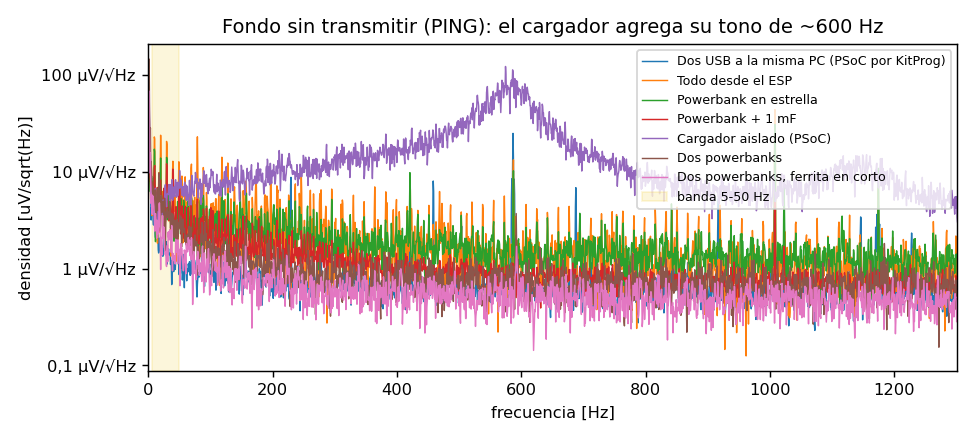
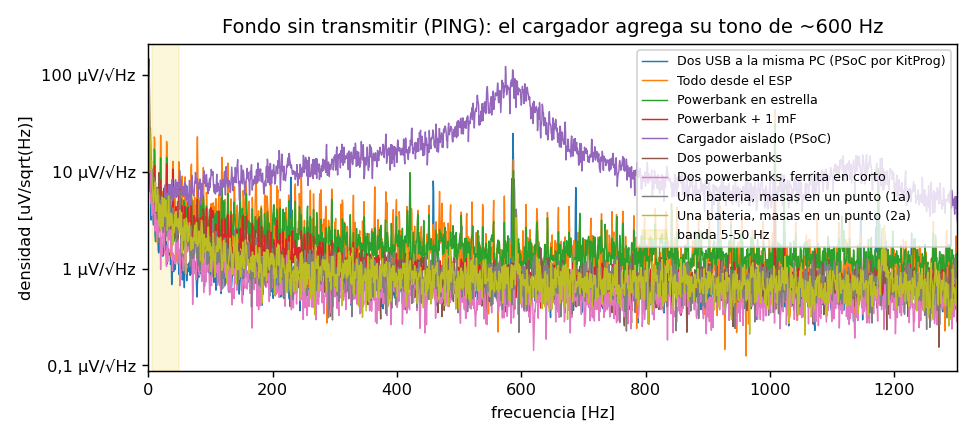
Una bateria con masas en un punto: SD y baliza sin efecto, TX 9,8 mV en banda a ganancia de campo
Claude-Session: https://claude.ai/code/session_015vxwffcT5SngEWGSrRrgxc

Changed region(s): [[0.1538, 0.3824, 0.9846, 0.7353]]

diff --git a/lab/informe_alimentacion.py b/lab/informe_alimentacion.py
@@ -33,11 +33,14 @@ CONFIGS = [
     ('Cargador\naislado (PSoC)', 'ruido_rf_20261021_ferrita_fuente/W9_ganancia_pga2'),
     ('Dos\npowerbanks', 'ruido_rf_20261021_2powerbanks/R8_seo_x4'),
     ('Dos powerbanks,\nferrita en corto', 'ruido_rf_20261021_ferrita_corto/R8_seo_x4'),
+    ('Una bateria, masas\nen un punto (1a)', 'ruido_rf_20261022_bateria_unica_punto/R8_seo_x4'),
+    ('Una bateria, masas\nen un punto (2a)', 'ruido_rf_20261022_bateria_unica_punto_rep/R8_seo_x4'),
 ]
 # LPo ganancia de campo (x8 x16): BASE, ESD, RF240
 LPO = [
     ('Dos powerbanks,\nferrita entre planos', 'ruido_rf_20261021_2powerbanks/R9b_lpo_campo'),
     ('Dos powerbanks,\nferrita en corto', 'ruido_rf_20261021_ferrita_corto/R9_lpo_campo'),
+    ('Una bateria,\nmasas en un punto', 'ruido_rf_20261022_bateria_unica_punto_rep/R9_lpo_campo'),
 ]
 _CAP = {}
 
@@ -99,7 +102,7 @@ def main(argv=None):
         })
 
     # 1) barras: exceso por TX en banda (log)
-    fig, ax = plt.subplots(figsize=(10.5, 3.8))
+    fig, ax = plt.subplots(figsize=(13, 3.8))
     et = [e for e, _ in datos]
     ex = [max(exceso(dd, 'RF240', 'PING'), 1e-3) for _, dd in datos]
     col = ['#c0392b' if v > 0.1 else '#27ae60' for v in ex]

diff --git a/lab/RUIDO_RF_2026-10-20.md b/lab/RUIDO_RF_2026-10-20.md
@@ -463,3 +463,4 @@ Cambio físico del usuario: los dos planos de tierra quedan unidos solo por una 
 - **Ferrita en corto (dos powerbanks):** SEo x4 brote TX 0,04 mV (fondo), exceso 0,008 mV; LPo x8·x16 RMS 5-50 Hz base/SD/TX 0,90/0,89/0,94 mV contra 0,87/0,85/0,83 con la ferrita: no cambia nada (`ruido_rf_20261021_ferrita_corto`).
 - LPo x8·x16 con dos powerbanks: SD del ESP y TX sin exceso en banda; fondo 0,87 mV (dos USB: 0,49), picos ~9-10 Hz (¿baliza?): falta medir con la radio apagada a esa ganancia.
 - Informe con figuras: https://claude.ai/artifact/Fy3Mropy23ftcbEgdEC8Xq (`lab/informe_alimentacion.py`).
+- **2026-10-22, una batería, ESP por Vin, PSoC por su USB, masas en un solo punto, ferrita en corto:** SEo x4 brote TX 0,66 / 2,14 mV (dos corridas), exceso 0,16 / 0,27 mV; LPo x8·x16 base 0,84, SD 0,86, TX 9,84 mV RMS 5-50 Hz (brote 109 mV). SD y radio en reposo sin efecto; la TX sí. Primera corrida con dos cortes del USB del ESP (`ruido_rf_20261022_bateria_unica_punto[_rep]`).
